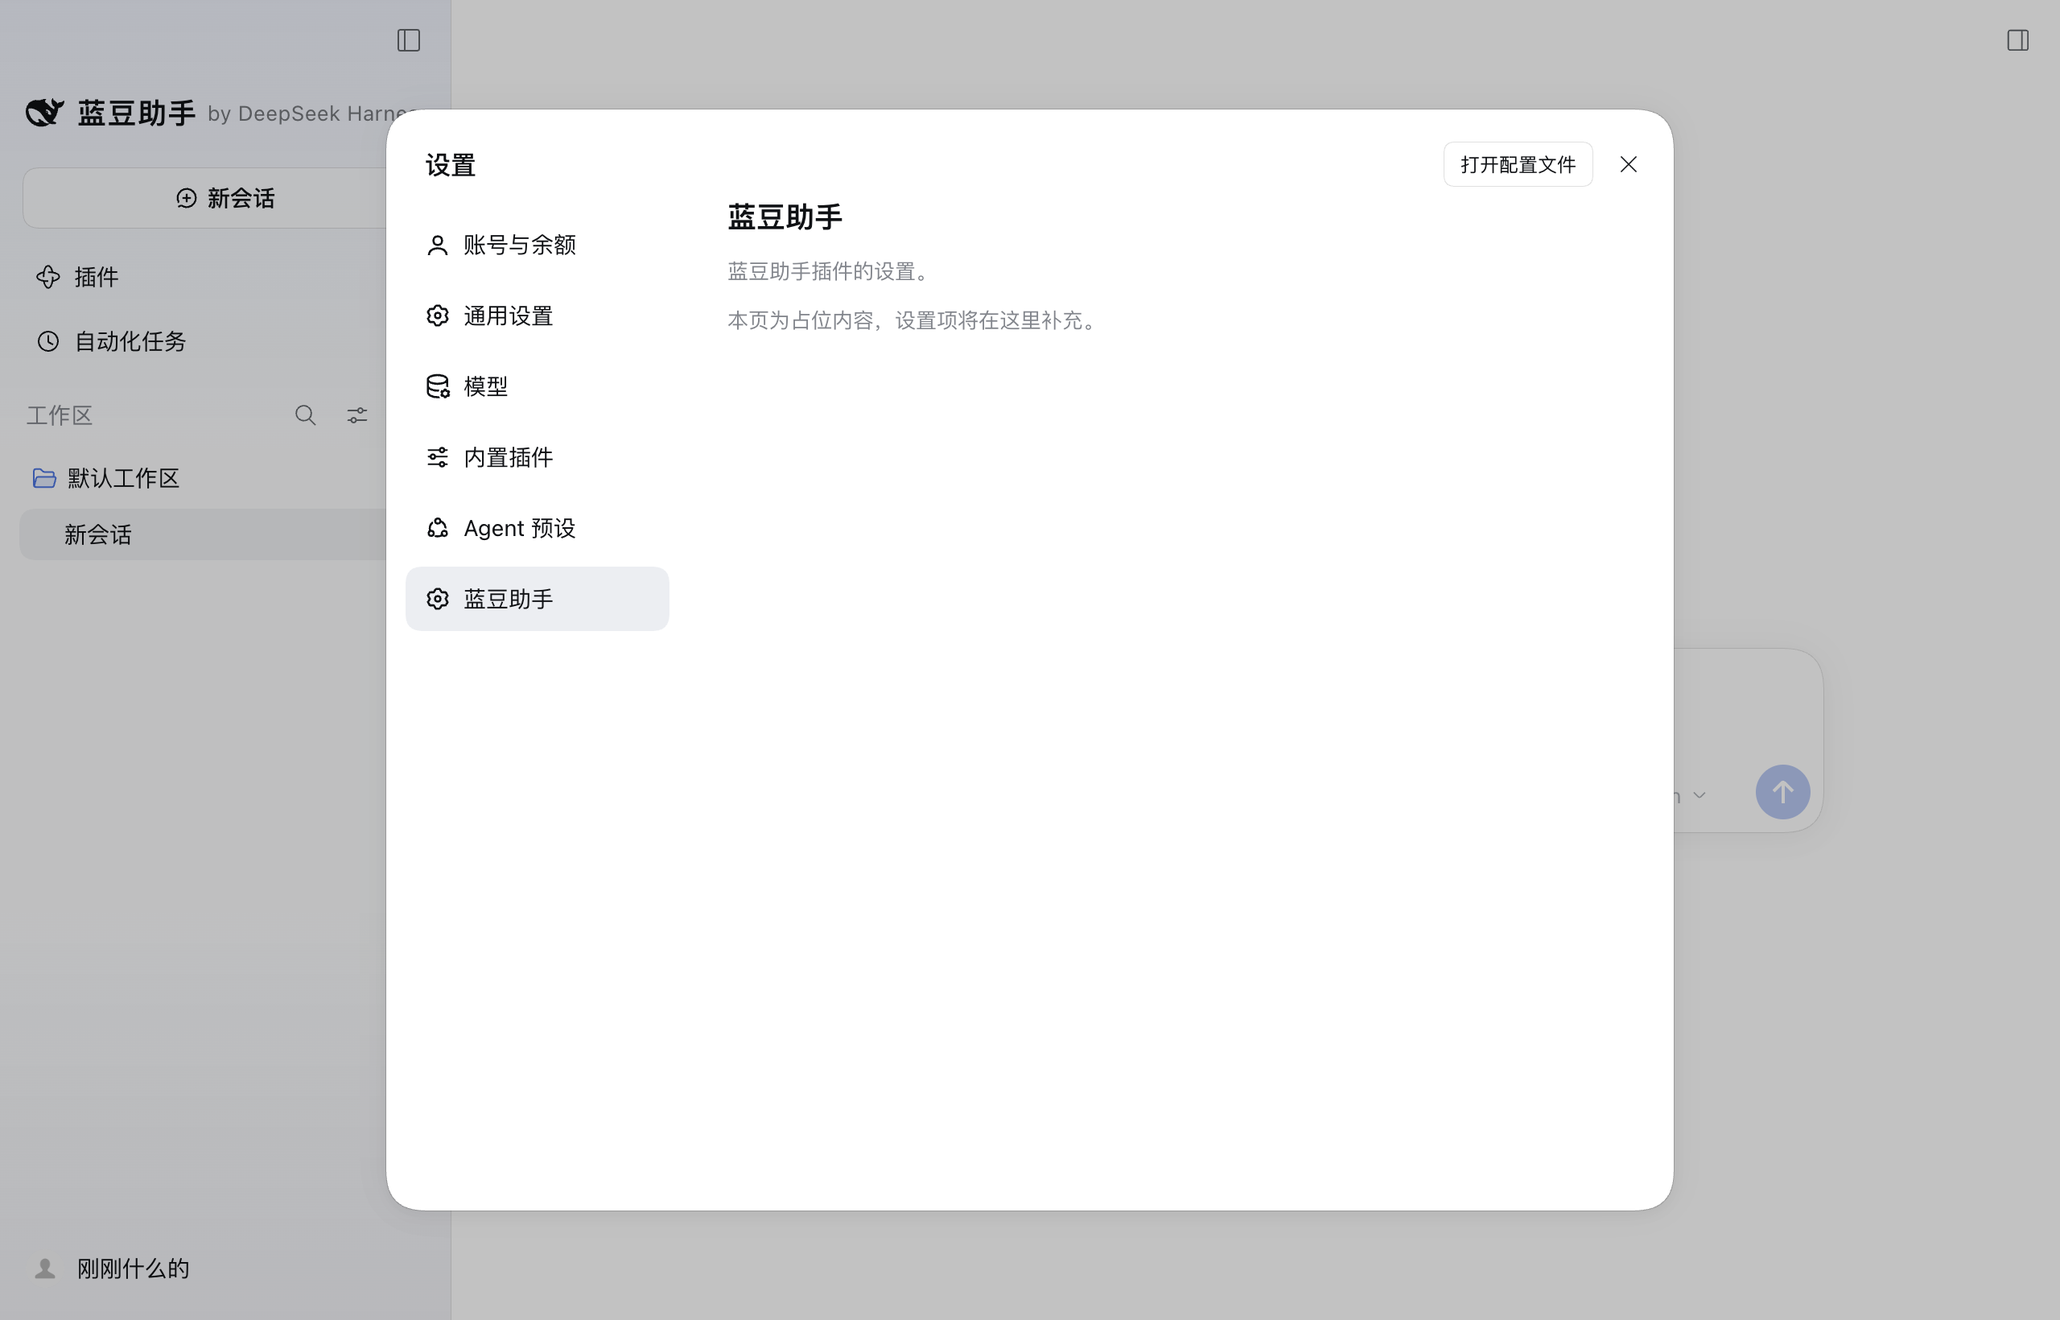
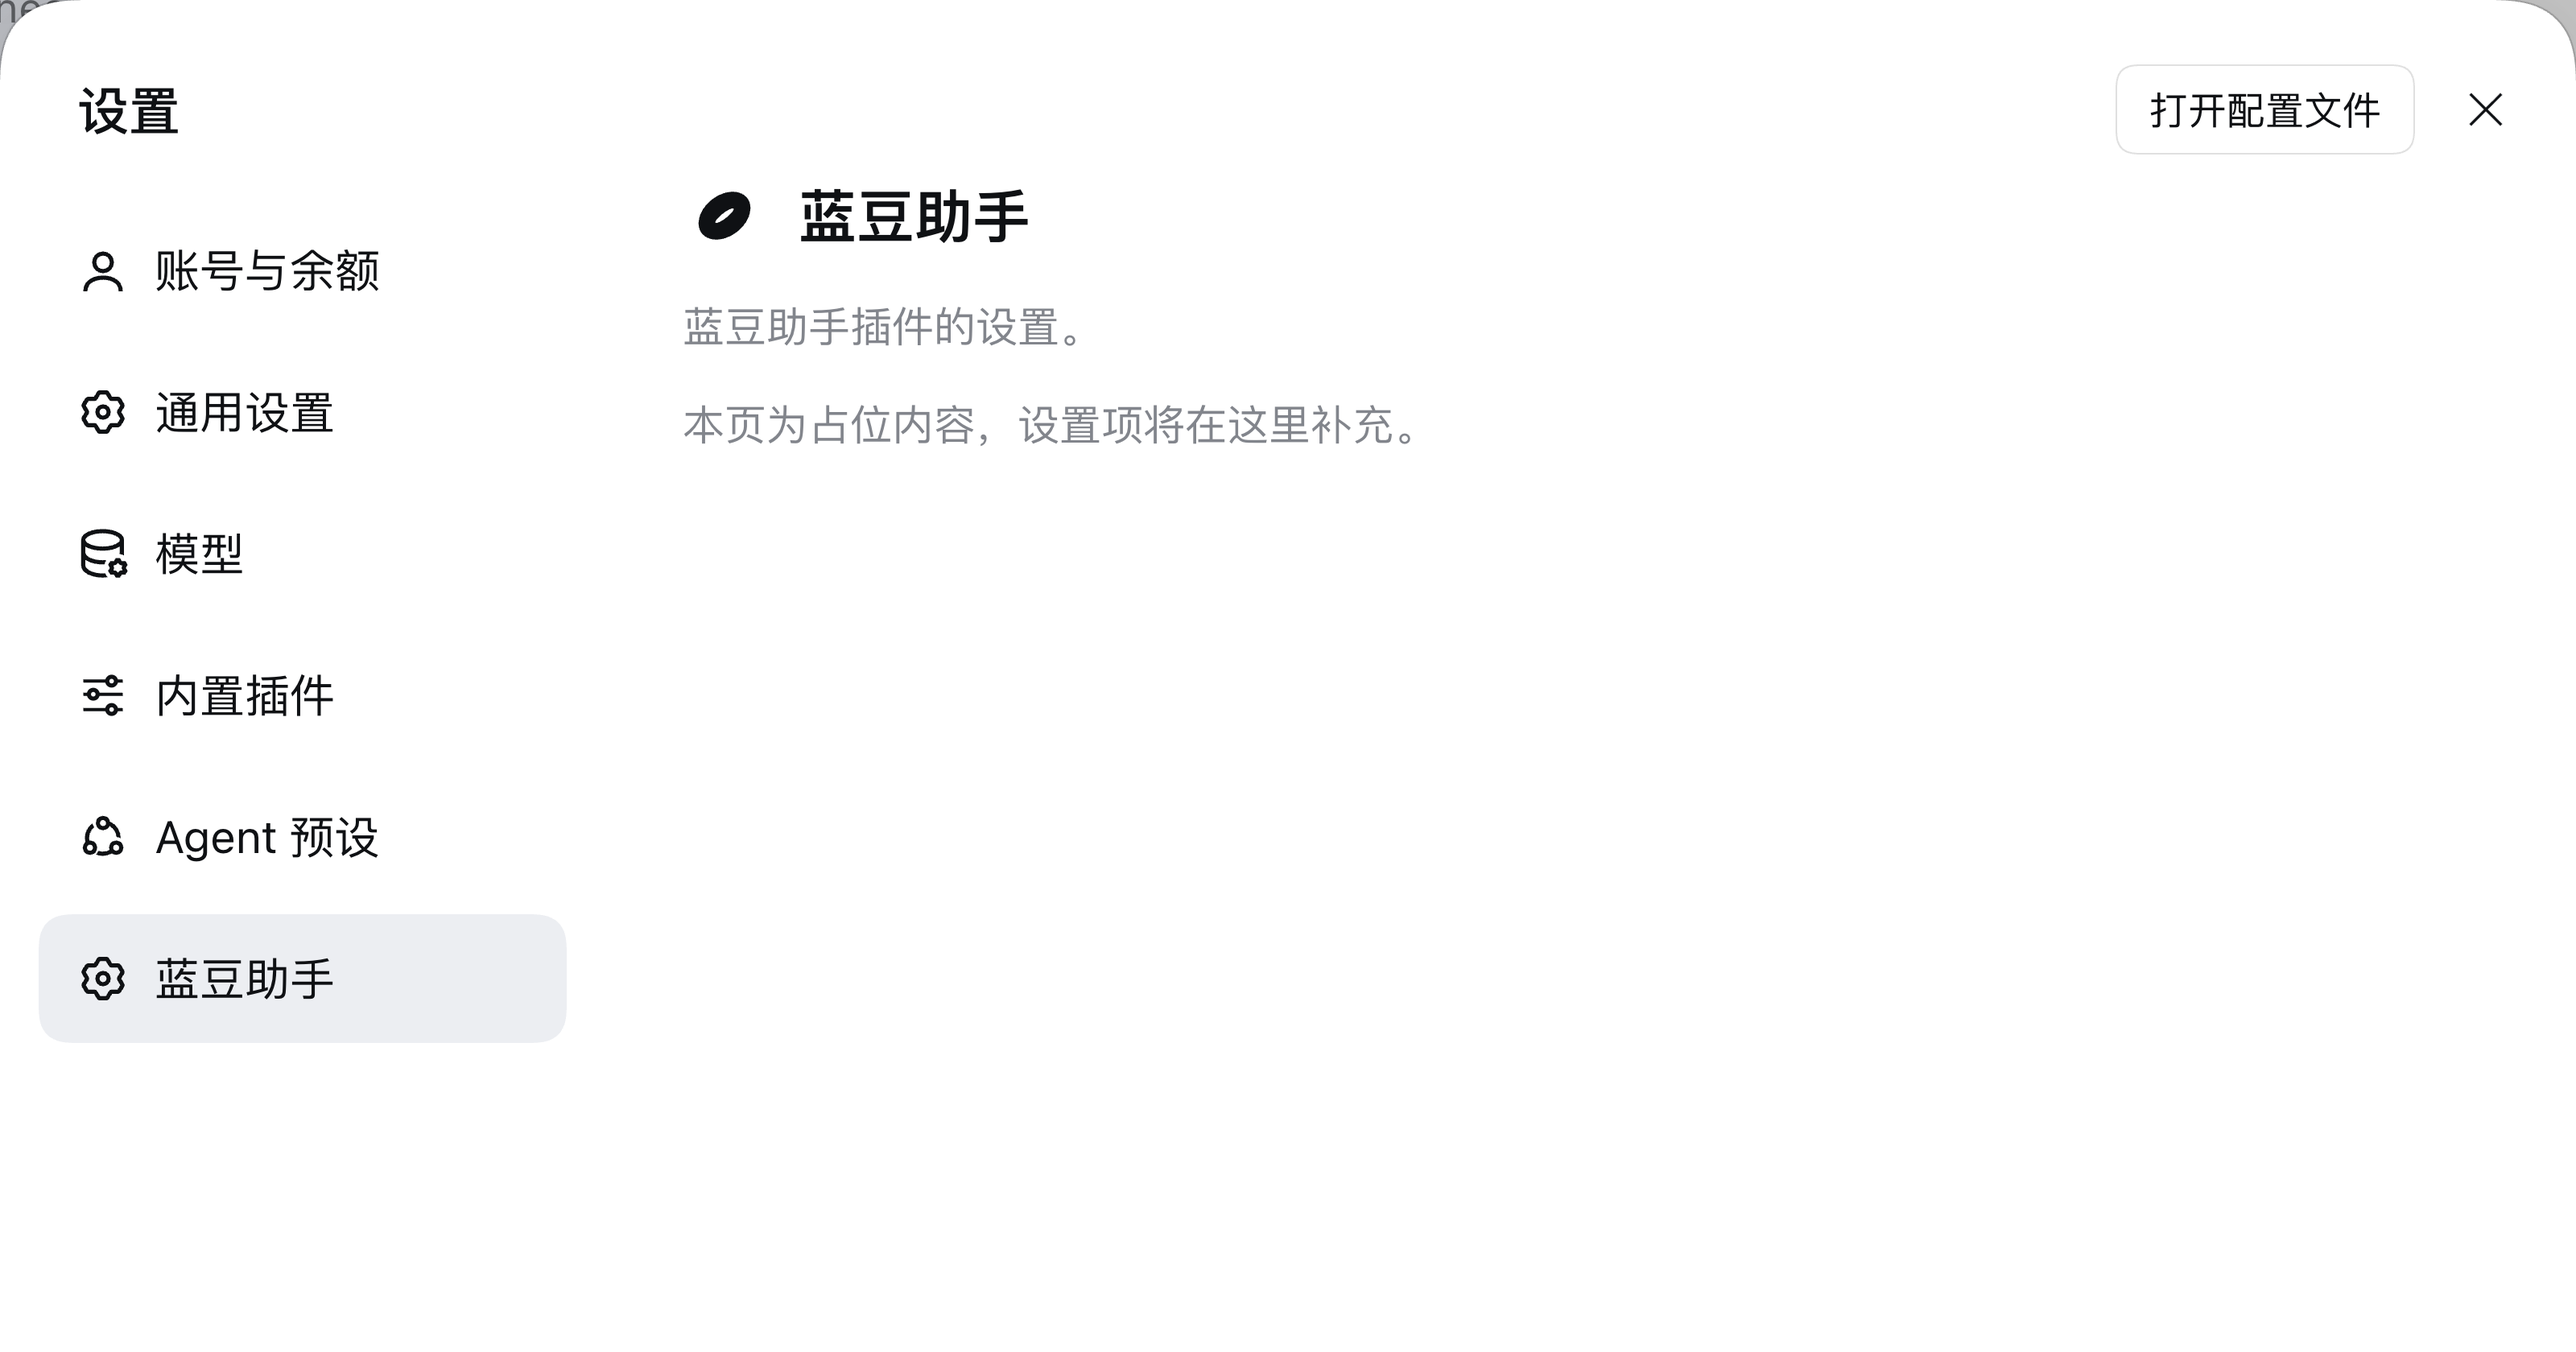
fix: 品牌名宽度退化 + 设置页品牌头 + 导航图标限制的准确说明
品牌名宽度退化(修复):
实测侧栏 280px 时宿主 .brand 只有 252px,官方图标+间隙占 32px,留给品牌名的
219px 里文案占 213px —— 只剩 6px 余量,而父级链是 overflow:hidden,窄栏会硬切字符。
现在显式声明退化顺序:主名 flex-shrink:0 永不压缩,副名 flex-shrink:1 +
min-width:0 + 省略号先被截短。

设置页品牌头(新增):
标题旁加豆形标记。形状用单条 path + fill-rule:evenodd 把豆缝镂空 ——
换成叠一条线的版本在小尺寸下会读成禁止符号。内联 SVG,不依赖图标库。

导航图标(记录限制,不做本地补丁):
设置项导航图标由 ui-settings-general 的 navIcon(id) 硬编码,三层原因决定插件
注入不了:图标不是 slot;slot 核心入队时重建 options 会丢弃未知字段;而把
ReactNode 塞进注入值是 packages/client/AGENTS.md 明令禁止的。
正确做法是上游加一个 keyed slot。这里刻意不做本地补丁版 —— 补丁只存在于改过的
DSH 里,用户装同一份插件时不会有图标,那违背可分发的意义。

diff --git a/lib/client.js b/lib/client.js
@@ -14,13 +14,32 @@ window.__ModuleLoader__.load({
 		* 所以两个 span 之间的间距由容器的 gap 给出,这里只区分主次层级,
 		* 不重复声明字号与字重以外的东西。
 		*
+		* 宽度退化是这个组件的关键约束。实测:侧栏 280px 时,宿主链上的
+		* `.brand`(252px,`overflow:hidden`)+ 官方鲸鱼图标(24px)+ gap 占掉
+		* 32px,留给品牌名的是 219px —— 正好塞满,**余量为 1px**。
+		* 侧栏或窗口一旦变窄,父级的 `overflow:hidden` 会直接**硬切**字符,
+		* 而不是给省略号。所以这里显式声明退化顺序:
+		*   1. 主名 `flexShrink: 0` —— 「蓝豆助手」永不压缩
+		*   2. 副名 `flexShrink: 1` + `minWidth: 0` + 省略号 —— 先被截短
+		* 这样窄栏下呈现为「蓝豆助手 by DeepS…」,而不是切掉半个字。
+		*
 		* 用内联样式而不是 CSS Module:本插件独立于 DSH 仓库构建,不引入
 		* lightningcss 之类的构建期 CSS 管线,产物就只剩 lib/client.js 一个文件。
 		* @returns 品牌名内容,作为宿主容器的两个 flex 子项。
 		*/
 		function LandouBrandName() {
-			return /* @__PURE__ */ (0, react_jsx_runtime.jsxs)(react_jsx_runtime.Fragment, { children: [/* @__PURE__ */ (0, react_jsx_runtime.jsx)("span", { children: "蓝豆助手" }), /* @__PURE__ */ (0, react_jsx_runtime.jsx)("span", {
+			return /* @__PURE__ */ (0, react_jsx_runtime.jsxs)(react_jsx_runtime.Fragment, { children: [/* @__PURE__ */ (0, react_jsx_runtime.jsx)("span", {
 				style: {
+					flexShrink: 0,
+					whiteSpace: "nowrap"
+				},
+				children: "蓝豆助手"
+			}), /* @__PURE__ */ (0, react_jsx_runtime.jsx)("span", {
+				style: {
+					flexShrink: 1,
+					minWidth: 0,
+					overflow: "hidden",
+					textOverflow: "ellipsis",
 					fontSize: "13px",
 					fontWeight: 400,
 					letterSpacing: "0.02em",
@@ -29,6 +48,44 @@ window.__ModuleLoader__.load({
 				},
 				children: "by DeepSeek Harness"
 			})] });
+		}
+		//#endregion
+		//#region src/client/LandouMark.tsx
+		/**
+		* 蓝豆助手的豆形标记。
+		*
+		* 用内联 SVG 而不是图标库:本插件要在**未经修改的** DSH 上工作,
+		* 不能用只存在于某个本地补丁里的扩展点,也不想依赖官方图标集里
+		* 语义不贴切的现成字形。
+		*
+		* 形状用单条 path + `fill-rule="evenodd"`:豆身是椭圆,豆缝是同一条 path 里
+		* 的第二个子路径,靠 evenodd 被**镂空**成一道缝。这样在任何背景色上都成立 ——
+		* 换成"画一条线"的版本会在深色/浅色下需要不同的缝色,而且细线加细环
+		* 在小尺寸下会读成禁止符号。
+		*
+		* 填充用 `currentColor`,深浅色主题自动跟随。
+		* @param props - 渲染尺寸,默认 28。
+		* @returns 豆形标记。
+		*/
+		function LandouMark({ size = 28 }) {
+			return /* @__PURE__ */ (0, react_jsx_runtime.jsx)("svg", {
+				width: size,
+				height: size,
+				viewBox: "0 0 32 32",
+				"aria-hidden": "true",
+				style: {
+					flex: "none",
+					display: "block"
+				},
+				children: /* @__PURE__ */ (0, react_jsx_runtime.jsx)("g", {
+					transform: "rotate(-38 16 16)",
+					children: /* @__PURE__ */ (0, react_jsx_runtime.jsx)("path", {
+						fill: "currentColor",
+						fillRule: "evenodd",
+						d: "M27 16a11 7.8 0 1 0-22 0 11 7.8 0 1 0 22 0Z M20.4 16a4.4 1 0 1 0-8.8 0 4.4 1 0 1 0 8.8 0Z"
+					})
+				})
+			});
 		}
 		//#endregion
 		//#region src/client/LandouSettingsSection.tsx
@@ -47,13 +104,20 @@ window.__ModuleLoader__.load({
 					color: "var(--dsw-alias-label-primary)"
 				},
 				children: [
-					/* @__PURE__ */ (0, react_jsx_runtime.jsx)("h2", {
+					/* @__PURE__ */ (0, react_jsx_runtime.jsxs)("header", {
 						style: {
-							margin: 0,
-							fontSize: "18px",
-							fontWeight: 600
+							display: "flex",
+							alignItems: "center",
+							gap: "10px"
 						},
-						children: t("title")
+						children: [/* @__PURE__ */ (0, react_jsx_runtime.jsx)(LandouMark, { size: 26 }), /* @__PURE__ */ (0, react_jsx_runtime.jsx)("h2", {
+							style: {
+								margin: 0,
+								fontSize: "18px",
+								fontWeight: 600
+							},
+							children: t("title")
+						})]
 					}),
 					/* @__PURE__ */ (0, react_jsx_runtime.jsx)("p", {
 						style: {

diff --git a/src/client/LandouSettingsSection.tsx b/src/client/LandouSettingsSection.tsx
@@ -5,8 +5,13 @@
  * 一个 `flex column / gap 12px / max-width 720px` 的内容列,`h2` 是 18px/600
  * 标题,说明文字 13px 走 tertiary 色。颜色用主题变量而不是硬编码,
  * 这样跟随深浅色而不需要引入 CSS 构建管线。
+ *
+ * 标题旁边放本插件自己的豆形标记:设置面板左栏的导航图标由外壳按分区 id
+ * 硬编码(`ui-settings-general` 的 `navIcon`),插件注入不了 —— 见 README
+ * 「导航图标」一节。品牌视觉因此落在页面内,这对**未经修改的** DSH 同样成立。
  */
 import type { PropsLocale, PropsRuntime } from '@deepseek-ai/dsh-client-ui-slots'
+import { LandouMark } from './LandouMark.tsx'
 import type { LandouLocaleKey } from './locales.ts'
 
 /** 渲染器为本 section 绑定的 props。 */
@@ -30,7 +35,10 @@ export function LandouSettingsSection({ t }: LandouSettingsSectionProps) {
         color: 'var(--dsw-alias-label-primary)',
       }}
     >
-      <h2 style={{ margin: 0, fontSize: '18px', fontWeight: 600 }}>{t('title')}</h2>
+      <header style={{ display: 'flex', alignItems: 'center', gap: '10px' }}>
+        <LandouMark size={26} />
+        <h2 style={{ margin: 0, fontSize: '18px', fontWeight: 600 }}>{t('title')}</h2>
+      </header>
       <p style={{ margin: 0, fontSize: '13px', color: 'var(--dsw-alias-label-tertiary)' }}>{t('intro')}</p>
       <p style={{ margin: 0, fontSize: '13px', color: 'var(--dsw-alias-label-tertiary)' }}>{t('placeholder')}</p>
     </section>

diff --git a/src/client/LandouBrandName.tsx b/src/client/LandouBrandName.tsx
@@ -6,6 +6,15 @@
  * 所以两个 span 之间的间距由容器的 gap 给出,这里只区分主次层级,
  * 不重复声明字号与字重以外的东西。
  *
+ * 宽度退化是这个组件的关键约束。实测:侧栏 280px 时,宿主链上的
+ * `.brand`(252px,`overflow:hidden`)+ 官方鲸鱼图标(24px)+ gap 占掉
+ * 32px,留给品牌名的是 219px —— 正好塞满,**余量为 1px**。
+ * 侧栏或窗口一旦变窄,父级的 `overflow:hidden` 会直接**硬切**字符,
+ * 而不是给省略号。所以这里显式声明退化顺序:
+ *   1. 主名 `flexShrink: 0` —— 「蓝豆助手」永不压缩
+ *   2. 副名 `flexShrink: 1` + `minWidth: 0` + 省略号 —— 先被截短
+ * 这样窄栏下呈现为「蓝豆助手 by DeepS…」,而不是切掉半个字。
+ *
  * 用内联样式而不是 CSS Module:本插件独立于 DSH 仓库构建,不引入
  * lightningcss 之类的构建期 CSS 管线,产物就只剩 lib/client.js 一个文件。
  * @returns 品牌名内容,作为宿主容器的两个 flex 子项。
@@ -13,9 +22,13 @@
 export function LandouBrandName() {
   return (
     <>
-      <span>蓝豆助手</span>
+      <span style={{ flexShrink: 0, whiteSpace: 'nowrap' }}>蓝豆助手</span>
       <span
         style={{
+          flexShrink: 1,
+          minWidth: 0,
+          overflow: 'hidden',
+          textOverflow: 'ellipsis',
           fontSize: '13px',
           fontWeight: 400,
           letterSpacing: '0.02em',

diff --git a/src/client/LandouMark.tsx b/src/client/LandouMark.tsx
@@ -1,0 +1,36 @@
+/**
+ * 蓝豆助手的豆形标记。
+ *
+ * 用内联 SVG 而不是图标库:本插件要在**未经修改的** DSH 上工作,
+ * 不能用只存在于某个本地补丁里的扩展点,也不想依赖官方图标集里
+ * 语义不贴切的现成字形。
+ *
+ * 形状用单条 path + `fill-rule="evenodd"`:豆身是椭圆,豆缝是同一条 path 里
+ * 的第二个子路径,靠 evenodd 被**镂空**成一道缝。这样在任何背景色上都成立 ——
+ * 换成"画一条线"的版本会在深色/浅色下需要不同的缝色,而且细线加细环
+ * 在小尺寸下会读成禁止符号。
+ *
+ * 填充用 `currentColor`,深浅色主题自动跟随。
+ * @param props - 渲染尺寸,默认 28。
+ * @returns 豆形标记。
+ */
+export function LandouMark({ size = 28 }: { size?: number }) {
+  return (
+    <svg
+      width={size}
+      height={size}
+      viewBox="0 0 32 32"
+      aria-hidden="true"
+      style={{ flex: 'none', display: 'block' }}
+    >
+      {/* 旋转 38° 让豆子斜躺;两个子路径:x 方向椭圆豆身 + 中央极扁椭圆豆缝 */}
+      <g transform="rotate(-38 16 16)">
+        <path
+          fill="currentColor"
+          fillRule="evenodd"
+          d="M27 16a11 7.8 0 1 0-22 0 11 7.8 0 1 0 22 0Z M20.4 16a4.4 1 0 1 0-8.8 0 4.4 1 0 1 0 8.8 0Z"
+        />
+      </g>
+    </svg>
+  )
+}

diff --git a/README.md b/README.md
@@ -93,6 +93,7 @@ git add lib && git commit -m "build: ..."
 │   └── client/
 │       ├── index.ts      浏览器半边 —— 注册两处贡献
 │       ├── locales.ts    中英文案
+│       ├── LandouMark.tsx             豆形标记(内联 SVG)
 │       ├── LandouBrandName.tsx        侧栏品牌名组件
 │       └── LandouSettingsSection.tsx  设置页组件
 └── lib/                  预构建产物(随仓库提交)
@@ -104,10 +105,25 @@ git add lib && git commit -m "build: ..."
 |---|---|
 | 品牌名文案 | `src/client/LandouBrandName.tsx` |
 | 遮蔽优先级 | `src/client/index.ts` 的 `priority` |
-| 连图标一起换 | 同时注册 `sidebar.brand.mark`(owner props 是 `{size: number}`) |
+| 连侧栏图标一起换 | 同时注册 `sidebar.brand.mark`(owner props 是 `{size: number}`) |
+| 豆形标记形状 | `src/client/LandouMark.tsx` |
 | 设置页导航位置 | `src/client/index.ts` 注册选项的 `order` |
 | 导航项文案 | `src/client/locales.ts` 的 `nav` |
 | 占位页内容 | `src/client/LandouSettingsSection.tsx` |
+
+### 宽度退化
+
+侧栏品牌名的空间很紧:实测侧栏 280px 时,宿主 `.brand` 只有 252px,
+官方鲸鱼图标 + 间隙占掉 32px,留给品牌名的是 219px,而文案要 213px —— **只剩 6px 余量**。
+父级链上是 `overflow: hidden`,不处理的话窄栏会**硬切**字符。
+
+所以组件的退化顺序是显式声明的:
+
+1. 「蓝豆助手」`flex-shrink: 0` —— 永不压缩
+2. 「by DeepSeek Harness」`flex-shrink: 1` + `min-width: 0` + `text-overflow: ellipsis`
+   —— 先被截短,窄栏下呈现为「蓝豆助手 by DeepS…」而不是切掉半个字
+
+改文案时留意这个预算。
 
 ---
 
@@ -175,11 +191,61 @@ type-only 导入会被完全擦除。
 
 ---
 
+## 设置项导航图标:为什么插件给不了
+
+设置面板左栏每个分区的图标**由外壳按分区 id 硬编码**,插件注入不了。
+这不是偷懒,是当前 DSH 结构决定的 —— 三层原因,逐层收紧:
+
+**一、图标不是 slot。** 外壳直接渲染一个纯函数的结果:
+
+```tsx
+// packages/client/ui-settings-general/src/client/SettingsRoot.tsx
+function navIcon(id: string) {
+  if (id === 'account') return <IconUserOutlineMedium ... />
+  if (id === 'models')  return <IconDataOutlineMedium ... />
+  // 认不出的 id 走兜底齿轮 —— 「通用设置」也走这里
+  return <IconSettingsOutlineMedium className={css.navIcon} size={16} />
+}
+```
+
+**二、注册选项传不进来。** 想给注册选项加个 `icon` 字段也做不到 ——
+slot 核心在入队时会**重建** options 对象,只保留它认识的字段:
+
+```ts
+options: {
+  ...(options.id !== undefined ? { id: options.id } : {}),
+  ...(options.order !== undefined ? { order: options.order } : {}),
+  ...(options.label !== undefined ? { label: options.label } : {}),
+  ...(options.priority !== undefined ? { priority: options.priority } : {}),
+},
+```
+
+未知字段被丢弃,所以插件无法"偷渡"图标过去。
+
+**三、就算硬塞进去也是错的。** 设置分区列表是通过注入的 observable 投影给外壳的,
+而 `packages/client/AGENTS.md` 明确规定:
+
+> UI domains share JSON-compatible data and callbacks. Owner props, injected values,
+> store state, and provide contributions use these values.
+> **Route ReactNode content through a slot; do not add ReactNode-valued owner props or injected members.**
+
+**结论:这不是本插件能修的东西,而是 DSH 上游缺的一个扩展点。** 正确的上游改法是
+在 `ui-settings` 的 slots 契约里声明一个 keyed slot(例如 `settings.section.icon`,
+按分区 id 派发),由 `ui-settings-general` 声明并渲染,`navIcon(id)` 退为 fallback。
+
+**本插件刻意不做本地补丁版的图标**,理由是它会**破坏一致性**:
+补丁只存在于你自己改过的 DSH 里,用户从 GitHub 装这个插件时他们的 DSH 没有那个 slot ——
+图标只对你有、对用户没有。那正好违背这个插件存在的意义。
+
+作为替代,品牌视觉落在**设置页内部**(标题旁的豆形标记),这对未经修改的 DSH 同样成立。
+
+---
+
 ## 已知限制
 
 - 只改**侧栏品牌名**。标题栏、欢迎页、About 面板里的产品名是 Electron 壳或别的包的字面量,
   不在 slot 体系里。
-- 设置页的**图标**由设置外壳按分区 id 硬编码,插件无法自定义,当前走兜底图标。
+- 设置项**导航图标**无法自定义,原因见上一节。
 - 设置页目前是**占位**,没有任何写入行为。
 - **不发布到 npm**,仅通过 Git 安装。
 
